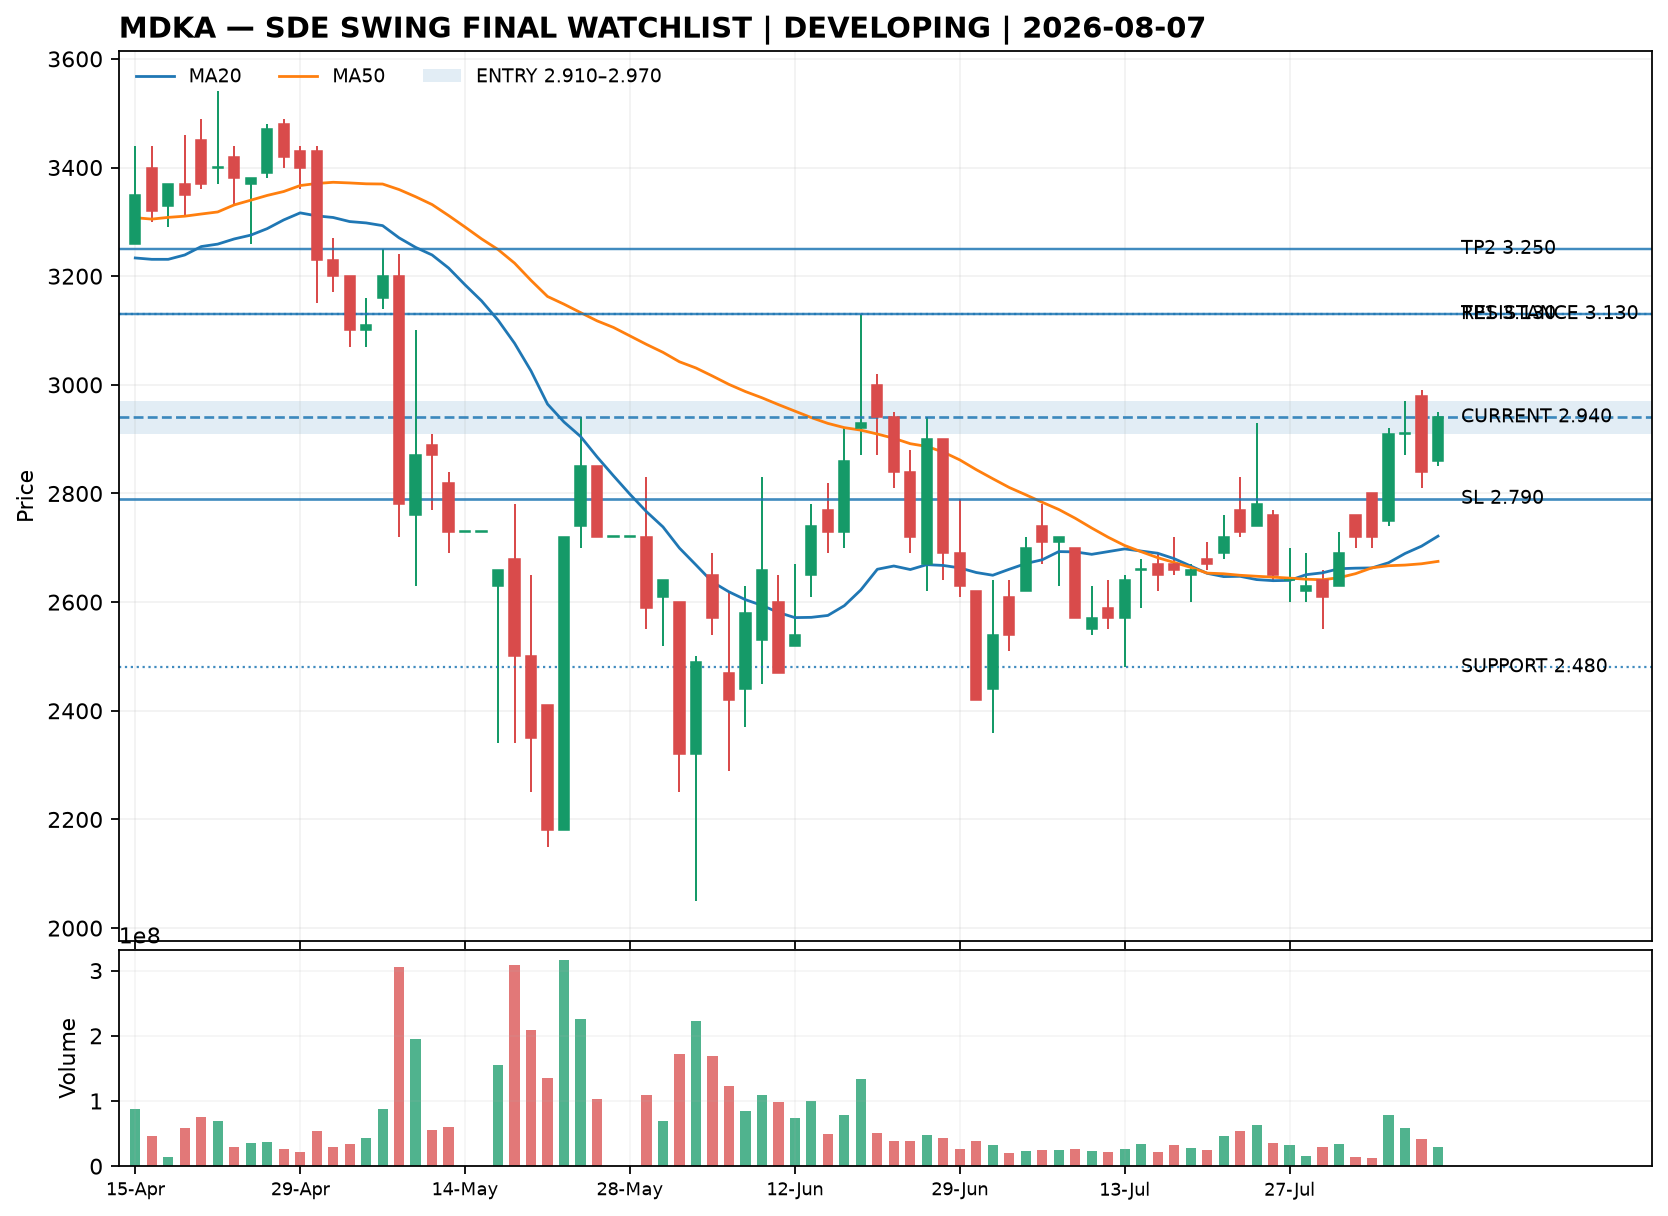
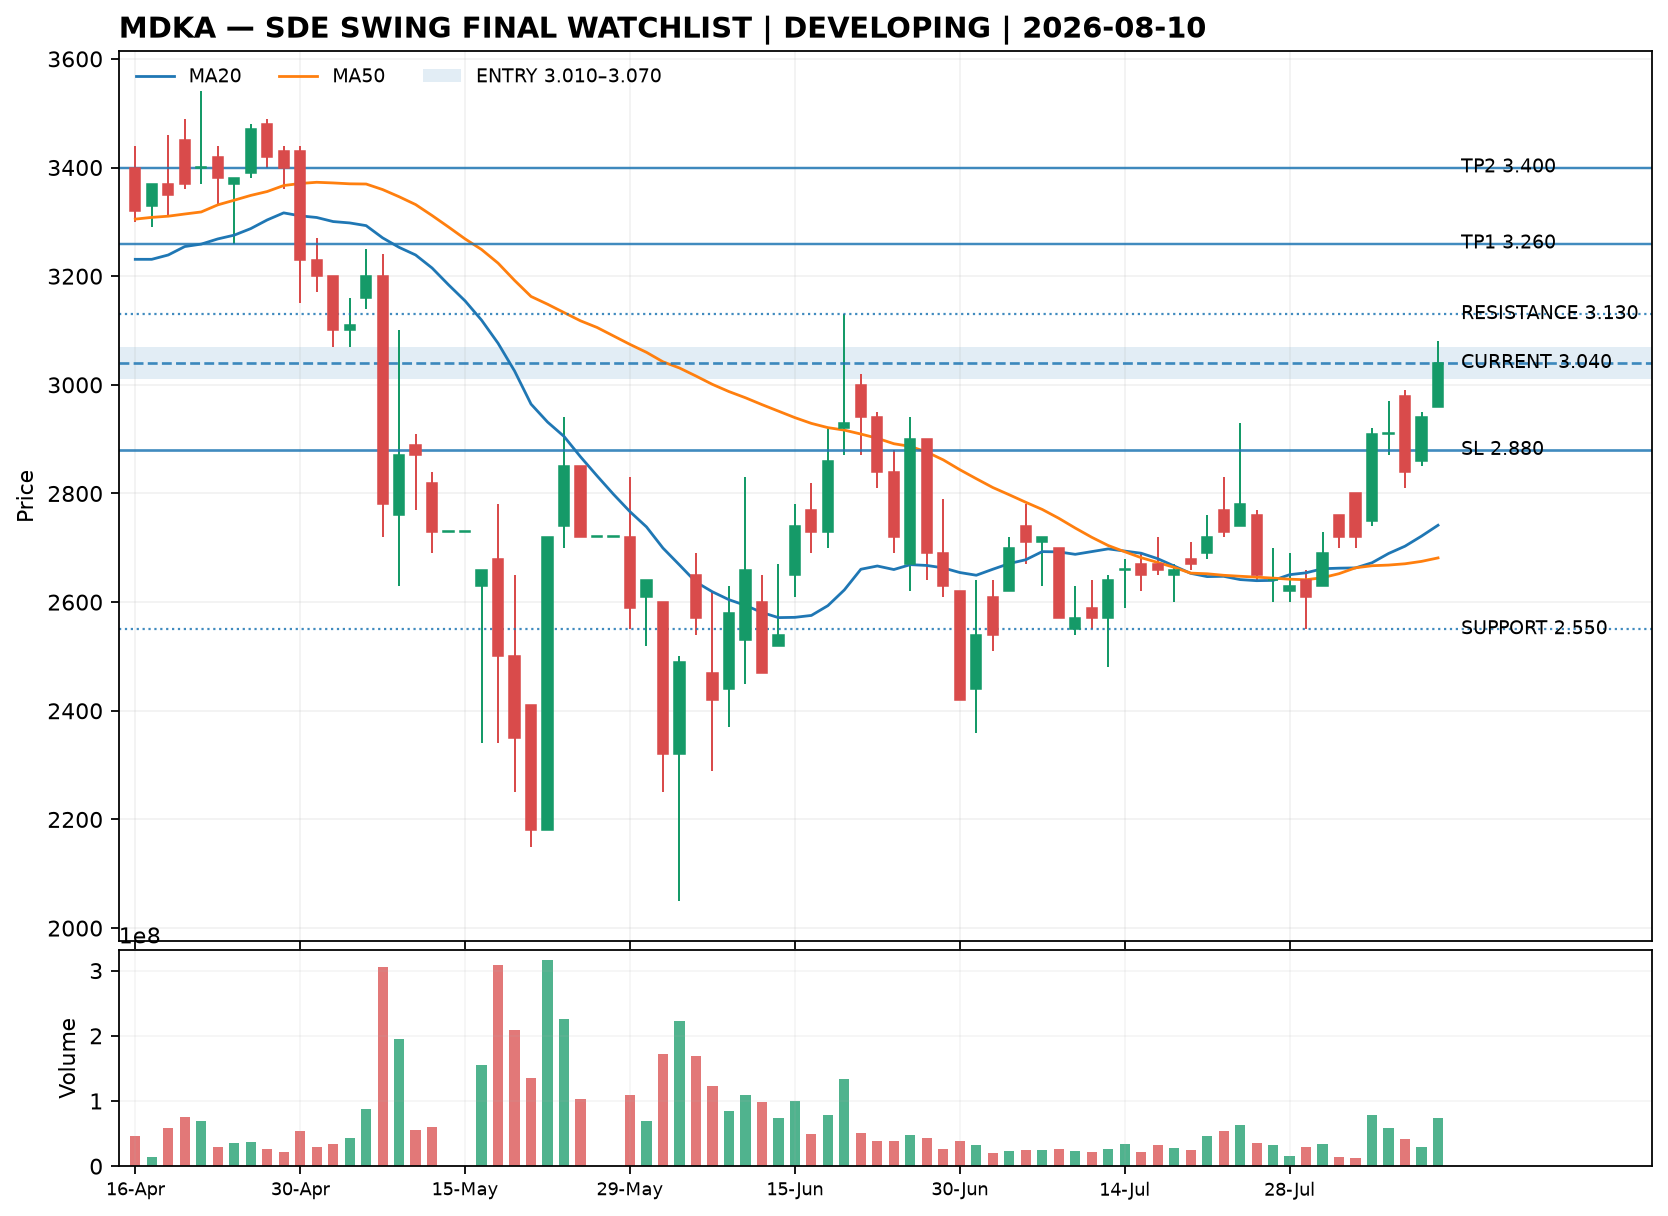
modified:   config/idx_fca_exclusions.json 	new file:   output/final_watchlist/HRUM_setup.png 	new file:   output/final_watchlist/MARK_setup.png 	modified:   output/final_watchlist/MDKA_setup.png 	new file:   output/final_watchlist/SRTG_setup.png 	modified:   tools/send_lifecycle_digest.py

diff --git a/tools/send_lifecycle_digest.py b/tools/send_lifecycle_digest.py
@@ -51,9 +51,9 @@ def build_lifecycle_message(events: list[Mapping[str, Any]], *, max_events: int 
 
     limit = max(int(max_events or 1), 1)
     lines = [
-        "🔔 <b>LIFECYCLE DIGEST</b>",
+        "🔔 <b>CUANS HIT DAILY</b>",
+        f"📊 <b>{len(material)} Hit Plan</b>",
         "━━━━━━━━━━━━━━━━━━━",
-        f"📊 <b>{len(material)} perubahan material</b>",
     ]
     body: list[str] = []
 
